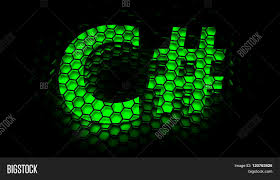
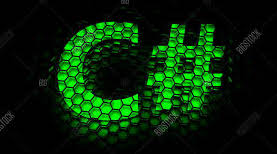
add README

diff --git a/css/styles.css b/css/styles.css
@@ -30,6 +30,8 @@ h1 {
 img {
   margin-top: 20px;
   margin-bottom: 20px;
+  height: 50%;
+  width: 50%;
 }
 
 body  {

diff --git a/README.md b/README.md
@@ -1,0 +1,49 @@
+# _Track Suggester_
+
+#### _https://jdnagel1.github.io/track-suggester-project/_
+
+#### By _Jake Nagel_
+
+## Description
+
+This page provides a series of questions to help prospective developers choose which programming languages to pursue._
+
+## Setup/Installation Requirements
+
+* _Open hyperlink_
+* _Site includes checkboxes and radio buttons to choose options from_
+* _Click submit button after selecting choices to reveal track suggestion_
+
+## Known Bugs
+
+_Zero bugs_
+
+## Support and contact details
+
+_If there are any known issues with this project feel free to contact me directly at jdnagel1@gmail.com_
+
+## Technologies Used
+
+_Technologies used included HTML, CSS, Bootstrap, JavaScript, jQuery and Google Fonts_
+
+### License
+
+Copyright (c) 2019 Jake Nagel
+
+Permission is hereby granted, free of charge, to any person obtaining a copy
+of this software and associated documentation files, to deal
+in the Software without restriction, including without limitation the rights
+to use, copy, modify, merge, publish, distribute, sublicense, and/or sell
+copies of the Software, and to permit persons to whom the Software is
+furnished to do so, subject to the following conditions:
+
+The above copyright notice and this permission notice shall be included in all
+copies or substantial portions of the Software.
+
+THE SOFTWARE IS PROVIDED "AS IS", WITHOUT WARRANTY OF ANY KIND, EXPRESS OR
+IMPLIED, INCLUDING BUT ALSO NOT LIMITED TO THE WARRANTIES OF MERCHANTABILITY,
+FITNESS FOR A PARTICULAR PURPOSE AND NONINFRINGEMENT. IN NO EVENT SHALL THE
+AUTHORS OR COPYRIGHT HOLDERS BE LIABLE FOR ANY CLAIM, DAMAGES OR OTHER
+LIABILITY, WHETHER IN AN ACTION OF CONTRACT, TORT OR OTHERWISE, ARISING FROM,
+OUT OF OR IN CONNECTION WITH THE SOFTWARE OR THE USE OR OTHER DEALINGS IN THE
+SOFTWARE.
